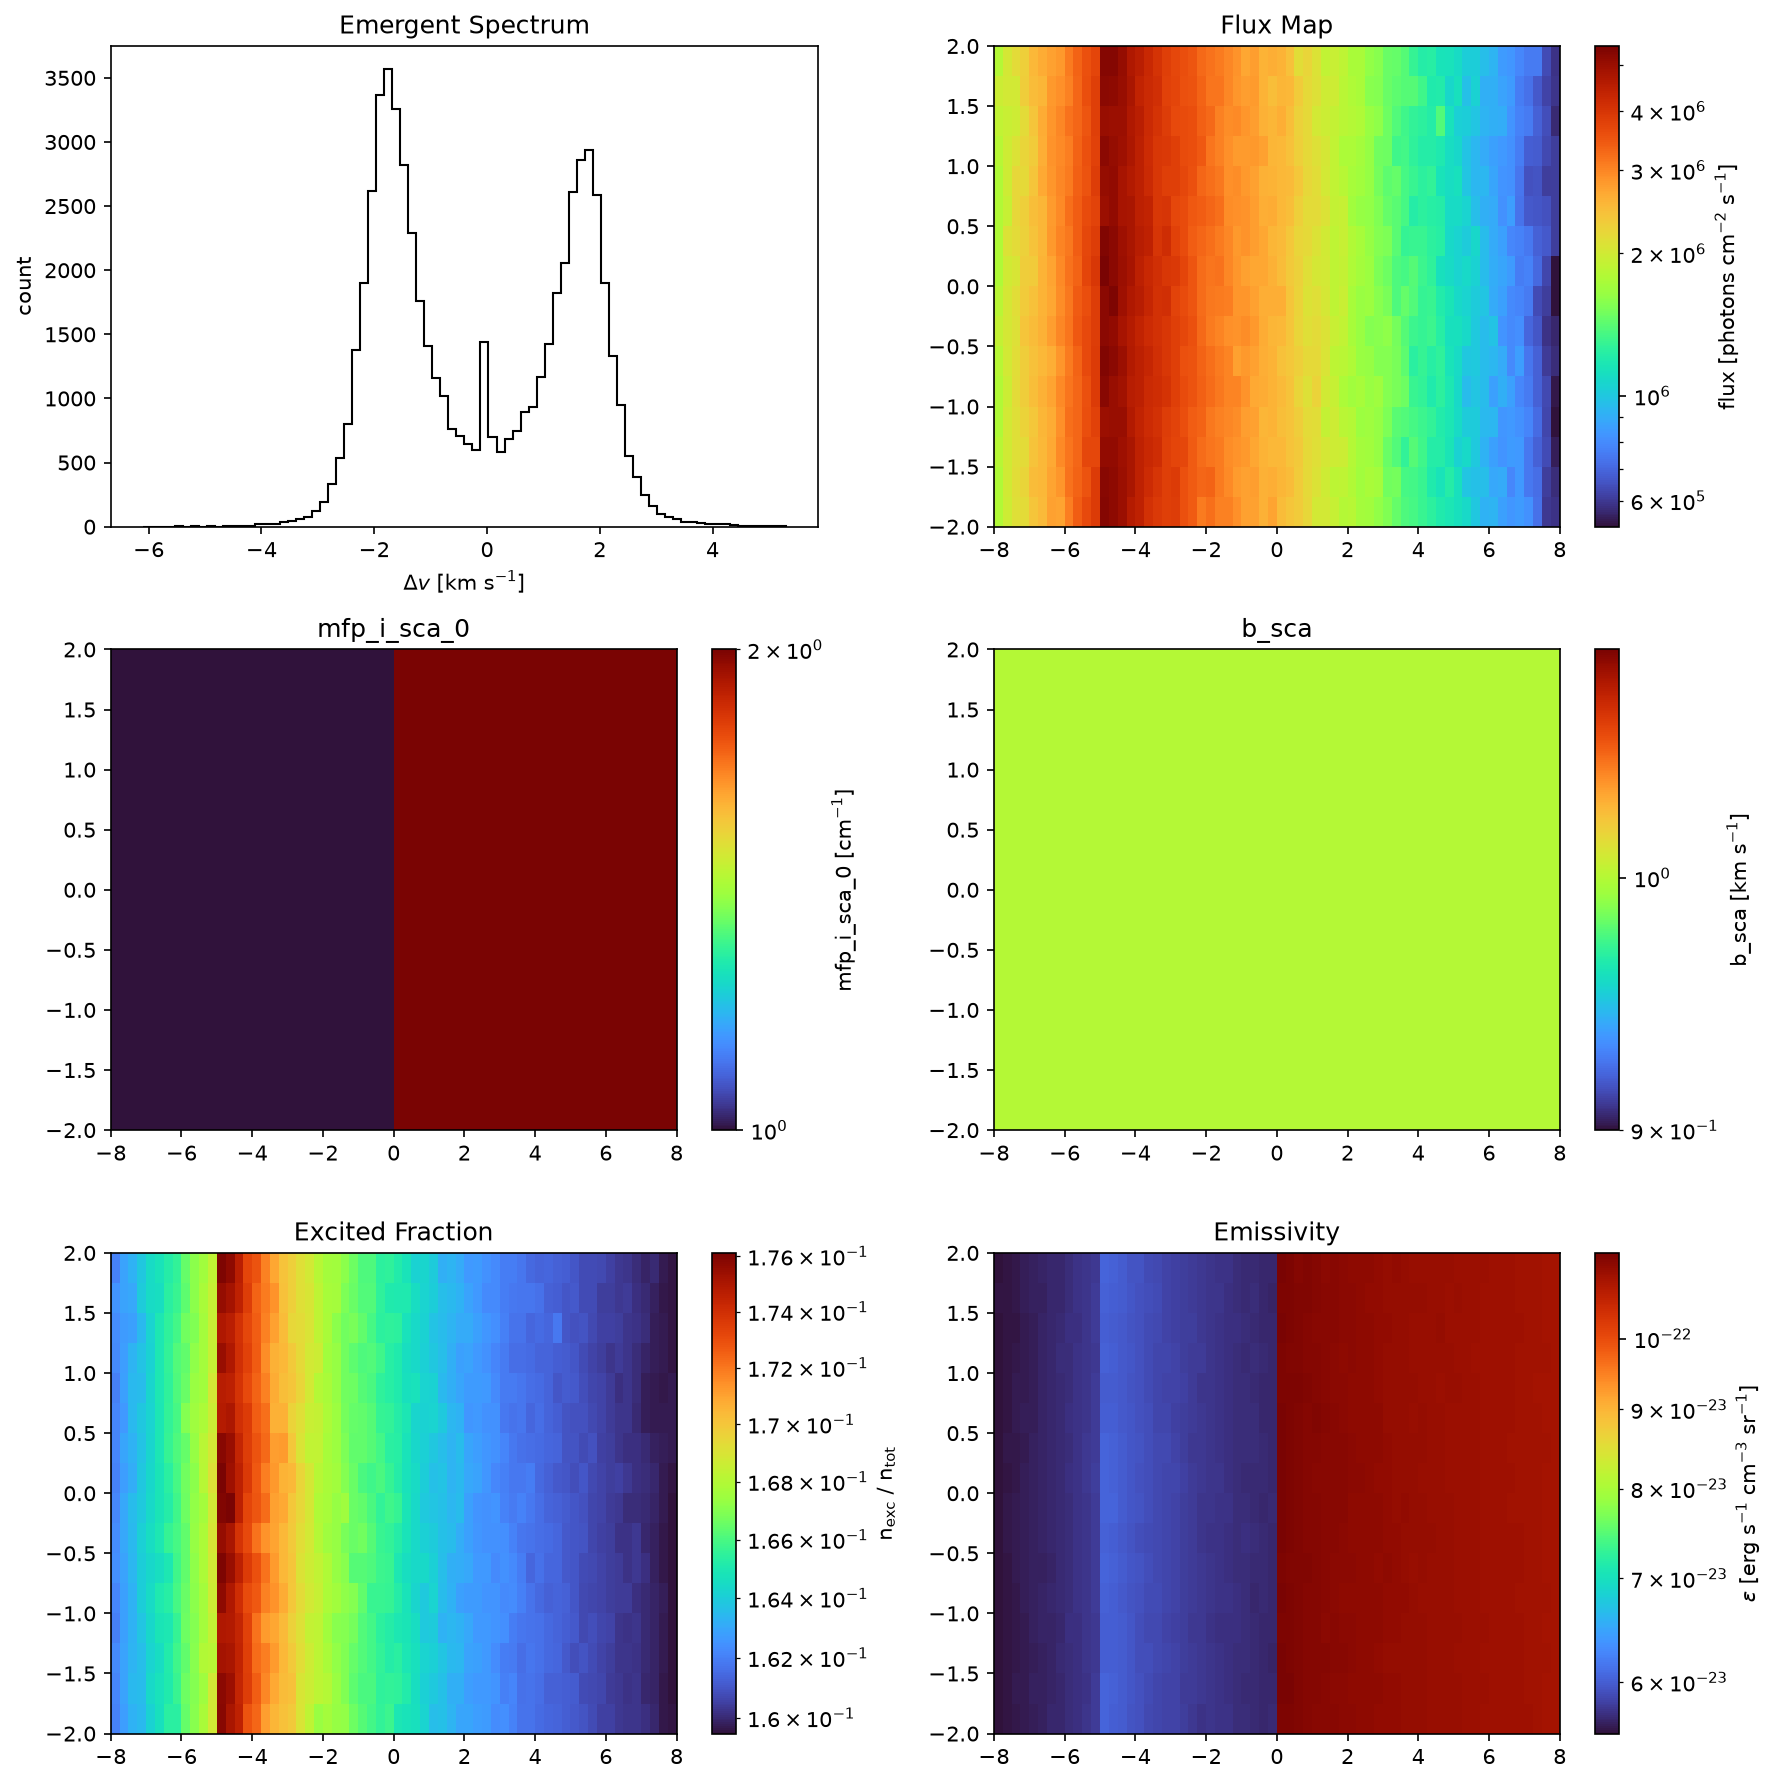
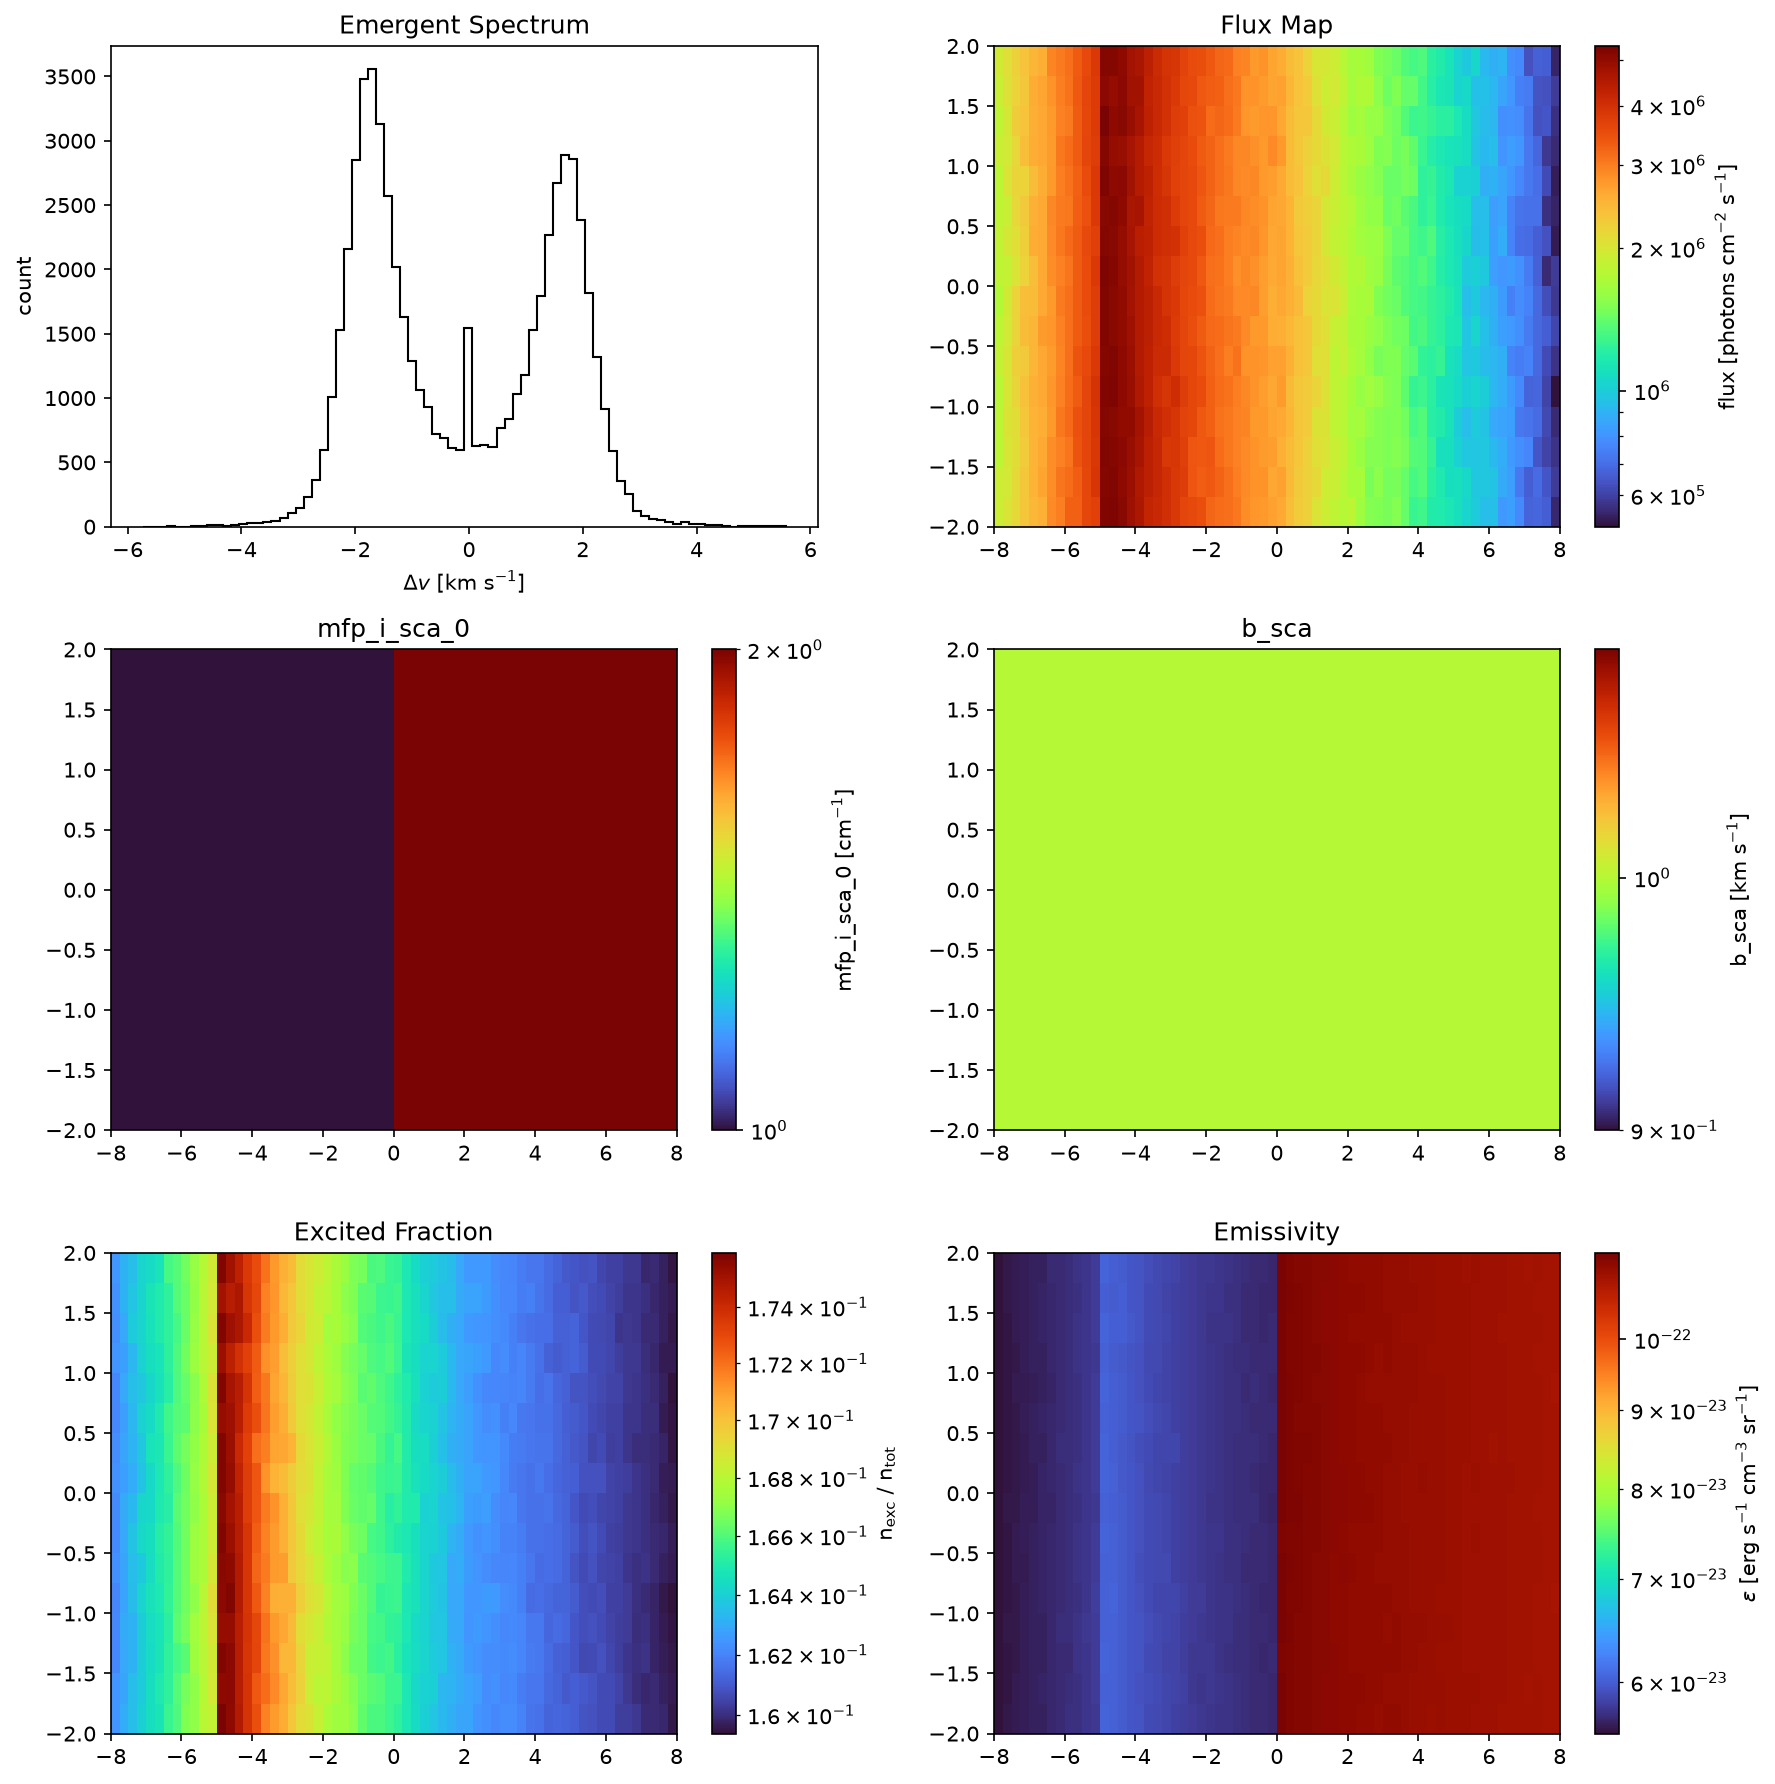
feat: add line_rt_bootstrap.py for running without installation
- New line_rt_bootstrap.py at repo root: adds pipeline dir to sys.path,
  re-exports public API (LineRt, TransitionInfo, iterate, etc.)
- Load via importlib.util.spec_from_file_location() - path set in one
  place, works from any CWD without pip install
- Update docs/examples/plane_parallel_hl.py, plane_parallel_lowlevel.py,
  docs/reference_mcrt/plot_neufeld.py: replace sys.path hacks with
  bootstrap loader
- Update docs/examples/plane_parallel_hl.ipynb, ui/notebook.ipynb:
  replace hardcoded _PROJECT path with bootstrap
- Update README.md and AGENTS.md with bootstrap usage instructions

diff --git a/line_rt_bootstrap.py b/line_rt_bootstrap.py
@@ -1,0 +1,49 @@
+"""Bootstrap loader for line_rt_pipeline - run WITHOUT installation.
+
+Allows scripts and notebooks to use the pipeline by pointing at the
+pipeline directory, with no ``pip install`` and no manual
+``sys.path`` manipulation:
+
+.. code-block:: python
+
+    import importlib.util, os
+    spec = importlib.util.spec_from_file_location(
+        'line_rt_bootstrap',
+        os.path.expanduser( '~/Seafile/seafile_sync/code/line_rt_pipeline/line_rt_bootstrap.py' ) );
+    lr = importlib.util.module_from_spec( spec );
+    spec.loader.exec_module( lr );
+
+    rt = lr.LineRt( ... )             # high-level orchestrator
+    ti = lr.TransitionInfo( 'CO', 0 ) # species selection
+    res = rt.run()
+
+The bootstrap adds its own directory to ``sys.path`` once, then
+re-exports the most-used classes/functions for convenience.
+
+If the pipeline IS installed (``pip install -e .``), the bootstrap is
+not needed - ``from core.line_rt import LineRt`` works directly from
+any directory.
+"""
+
+import os, sys
+
+_PIPELINE_DIR = os.path.dirname( os.path.realpath( __file__ ) );
+if _PIPELINE_DIR not in sys.path:
+    sys.path.insert( 0, _PIPELINE_DIR );
+
+#  Re-export the public API so callers can use ``lr.LineRt`` etc.
+from core.line_rt              import LineRt;
+from core.iterator             import iterate;
+from core.pipeline             import run_pipeline, resolve_kratos_bin;
+from core.kratos_io            import write_field_data, write_photon_data, \
+                                      read_output;
+from core.source               import make_cartesian_mesh;
+from core.visualize            import default_plot, plot_emergent_spectrum;
+from molecular.transition_info import TransitionInfo, \
+                                      show_available_species, \
+                                      show_available_transitions;
+from molecular.lamda_format    import load_lamda, load_species_transition;
+
+#  CGS constants (also exported for convenience)
+AU   = 1.49598e13;   # cm
+Lsun = 3.828e33;     # erg/s

diff --git a/docs/examples/plane_parallel_lowlevel.py b/docs/examples/plane_parallel_lowlevel.py
@@ -11,11 +11,17 @@ Run from ``/tmp/line_rt``:
 ############################################################
 #  Header: Imports
 
-import os, sys;
-_PROJECT = os.path.dirname( os.path.dirname( os.path.dirname( \
-                                 os.path.realpath( __file__ ) ) ) );
-if _PROJECT not in sys.path:
-    sys.path.insert( 0, _PROJECT );
+import importlib.util, os, sys;
+
+#  Bootstrap the pipeline without installation (adds pipeline dir
+#  to sys.path, re-exports the public API as module ``lr``).
+_BOOT = os.path.join( os.path.dirname( os.path.dirname( \
+    os.path.dirname( os.path.realpath( __file__ ) ) ) ), \
+    'line_rt_bootstrap.py' );
+_spec = importlib.util.spec_from_file_location( 'line_rt_bootstrap', \
+                                                _BOOT );
+lr = importlib.util.module_from_spec( _spec );
+_spec.loader.exec_module( lr );
 
 import matplotlib;
 matplotlib.use( 'Agg' );
@@ -23,10 +29,10 @@ from numpy    import full, zeros, ones, array, sqrt, max as np_max, \
                      float64;
 from numpy    import random;
 
-from core.source             import make_cartesian_mesh;
-from core.iterator           import iterate;
-from core.visualize          import default_plot;
-from molecular.lamda_format  import load_species_transition;
+make_cartesian_mesh   = lr.make_cartesian_mesh;
+iterate               = lr.iterate;
+default_plot          = lr.default_plot;
+load_species_transition = lr.load_species_transition;
 
 ############################################################
 #  CGS constants
@@ -94,7 +100,8 @@ ph[ :, 8 ] = sigma;
 ############################################################
 #  5. Species
 
-lamda_path = os.path.join( _PROJECT, 'molecular', 'embedded', 'co.dat' );
+lamda_path = os.path.join( lr._PIPELINE_DIR, 'molecular', 'embedded', \
+                           'co.dat' );
 co, tr     = load_species_transition( lamda_path, freq_GHz = 115.271202 );
 tr_idx     = co.find_transition_idx( tr );
 sigma_co   = co.cross_section( 0, b_sca );

diff --git a/docs/examples/plane_parallel_hl.py b/docs/examples/plane_parallel_hl.py
@@ -12,19 +12,27 @@ Run from ``/tmp/line_rt``:
 ############################################################
 #  Header: Imports
 
-import os, sys;
-_PROJECT = os.path.dirname( os.path.dirname( os.path.dirname( \
-                                 os.path.realpath( __file__ ) ) ) );
-if _PROJECT not in sys.path:
-    sys.path.insert( 0, _PROJECT );
+import importlib.util, os, sys;
+
+#  Bootstrap the pipeline without installation (adds pipeline dir
+#  to sys.path, re-exports the public API as module ``lr``).
+_BOOT = os.path.join( os.path.dirname( os.path.dirname( \
+    os.path.dirname( os.path.realpath( __file__ ) ) ) ), \
+    'line_rt_bootstrap.py' );
+_spec = importlib.util.spec_from_file_location( 'line_rt_bootstrap', \
+                                                _BOOT );
+lr = importlib.util.module_from_spec( _spec );
+_spec.loader.exec_module( lr );
 
 import matplotlib;
 matplotlib.use( 'Agg' );
 from numpy import full, zeros, sqrt, max as np_max, float64;
 
-from core.line_rt              import LineRt;
-from molecular.transition_info import TransitionInfo;
-from core.visualize            import default_plot;
+LineRt          = lr.LineRt;
+TransitionInfo  = lr.TransitionInfo;
+default_plot    = lr.default_plot;
+AU              = lr.AU;
+Lsun            = lr.Lsun;
 
 ############################################################
 #  CGS constants

diff --git a/docs/reference_mcrt/plot_neufeld.py b/docs/reference_mcrt/plot_neufeld.py
@@ -11,18 +11,25 @@ Usage:
   python docs/reference_mcrt/plot_neufeld.py [output_prefix]
 """
 
-import os, sys, time;
+import importlib.util, os, sys, time;
 
 from numpy import array, zeros, linspace, logspace, log10, \
                  abs, clip, cosh, sqrt, pi, histogram, diff, \
                  argmax, polyfit, trapz, median, mean, nan, \
                  int32, float64, random;
 
-_project = os.path.dirname( os.path.dirname( os.path.dirname( \
-    os.path.realpath( __file__ ) ) ) );
-sys.path.insert( 0, _project );
+#  Bootstrap the pipeline without installation.
+_BOOT = os.path.join( os.path.dirname( os.path.dirname( \
+    os.path.dirname( os.path.realpath( __file__ ) ) ) ), \
+    'line_rt_bootstrap.py' );
+_spec = importlib.util.spec_from_file_location( 'line_rt_bootstrap', \
+                                                _BOOT );
+lr = importlib.util.module_from_spec( _spec );
+_spec.loader.exec_module( lr );
 
-from docs.reference_mcrt.mcrt import run_mcrt;
+#  The reference MCRT lives in this directory (sibling module).
+sys.path.insert( 0, os.path.dirname( os.path.realpath( __file__ ) ) );
+from mcrt import run_mcrt;
 
 A_VOIGT = 0.01;
 B_SCA   = 1.0e5;

diff --git a/AGENTS.md b/AGENTS.md
@@ -33,7 +33,16 @@ This registers the `line-rt` console script and makes `import core` / `import mo
 
 If the binary is missing, a `FileNotFoundError` is raised with instructions for all three methods (Python, notebook `%env`, shell `export`).
 
-**Running without install** also works: `python3 cli.py ...` from the repo root (the `cli.py` sys.path bootstrap was removed; Python's default CWD-on-path handles it).
+**Running without install** also works: `python3 cli.py ...` from the repo root (the `cli.py` sys.path bootstrap was removed; Python's default CWD-on-path handles it). For scripts and notebooks, use `line_rt_bootstrap.py` (at the repo root) - it adds the pipeline directory to `sys.path` and re-exports the public API as module attributes. Load it via `importlib.util.spec_from_file_location()` so the path is set in one place:
+
+```python
+import importlib.util, os;
+_BOOT = '/path/to/line_rt_pipeline/line_rt_bootstrap.py';
+_spec = importlib.util.spec_from_file_location( 'line_rt_bootstrap', _BOOT );
+lr = importlib.util.module_from_spec( _spec );
+_spec.loader.exec_module( lr );
+rt = lr.LineRt( ... );
+```
 
 ---
 
@@ -46,6 +55,7 @@ If the binary is missing, a `FileNotFoundError` is raised with instructions for 
 | `ui/` | Jupyter ipywidgets interface |
 | `web/` | Panel dashboard (`panel serve web/app.py`) |
 | `cli.py` | CLI entrypoint (`line-rt` console script, registered in `pyproject.toml`) |
+| `line_rt_bootstrap.py` | Bootstrap loader for running without install; adds pipeline dir to `sys.path`, re-exports public API |
 | `docs/archived_tests/` | Archived standalone test scripts (moved from `tests/`) |
 | `docs/reference_mcrt/mcrt.py` | Reference Python MCRT (numba). ph_mode=1 uses USampler table-lookup R_IIA. `plot_neufeld.py` validates vs Neufeld (1990). |
 | `~/apps/kratos_line_rt/usr_ext/line_rt/tests/test_scaling_wide.py` | **Standalone Kratos regression test** (self-contained, no pipeline imports). Wide `aτ₀` sweep vs Neufeld eq (2.24) for ph_modes 1/2/3, golden med\|x\| table, PASS/FAIL exit code. Run: `python3 test_scaling_wide.py --kratos-root ~/apps/kratos_line_rt` |

diff --git a/README.md b/README.md
@@ -29,8 +29,28 @@ This registers the `line-rt` console script and makes `import core`,
 If the binary is missing, a `FileNotFoundError` is raised with
 instructions for all three methods.
 
-**Running without install** also works: `python3 cli.py ...` from the
-repo root.
+**Running without install** also works.  Two options:
+
+1. **CLI**: `python3 cli.py ...` from the repo root.
+2. **Scripts / notebooks**: use `line_rt_bootstrap.py` - it adds the
+   pipeline directory to `sys.path` and re-exports the public API:
+
+   ```python
+   import importlib.util, os
+   _BOOT = os.path.expanduser(
+       '/path/to/line_rt_pipeline/line_rt_bootstrap.py' )
+   _spec = importlib.util.spec_from_file_location(
+       'line_rt_bootstrap', _BOOT )
+   lr = importlib.util.module_from_spec( _spec )
+   _spec.loader.exec_module( lr )
+
+   rt = lr.LineRt( ... )            # high-level orchestrator
+   ti = lr.TransitionInfo( 'CO', 0 ) # species selection
+   res = rt.run()
+   ```
+
+   Set the path in one place (the `_BOOT` line); no other
+   `sys.path` manipulation needed.
 
 ## Three ways to use
 
@@ -52,6 +72,15 @@ Run `line-rt --help` for all flags, or `line-rt --list-species` to see
 available molecules.
 
 ### 2. Python module (scripting / automation)
+
+If installed (`pip install -e .`), import directly:
+
+```python
+from core.line_rt import LineRt
+```
+
+If NOT installed, use the bootstrap (see "Running without install"
+above), then use `lr.LineRt` instead of `LineRt`.
 
 **Group 2 - explicit opacity** (no species data needed):
 
